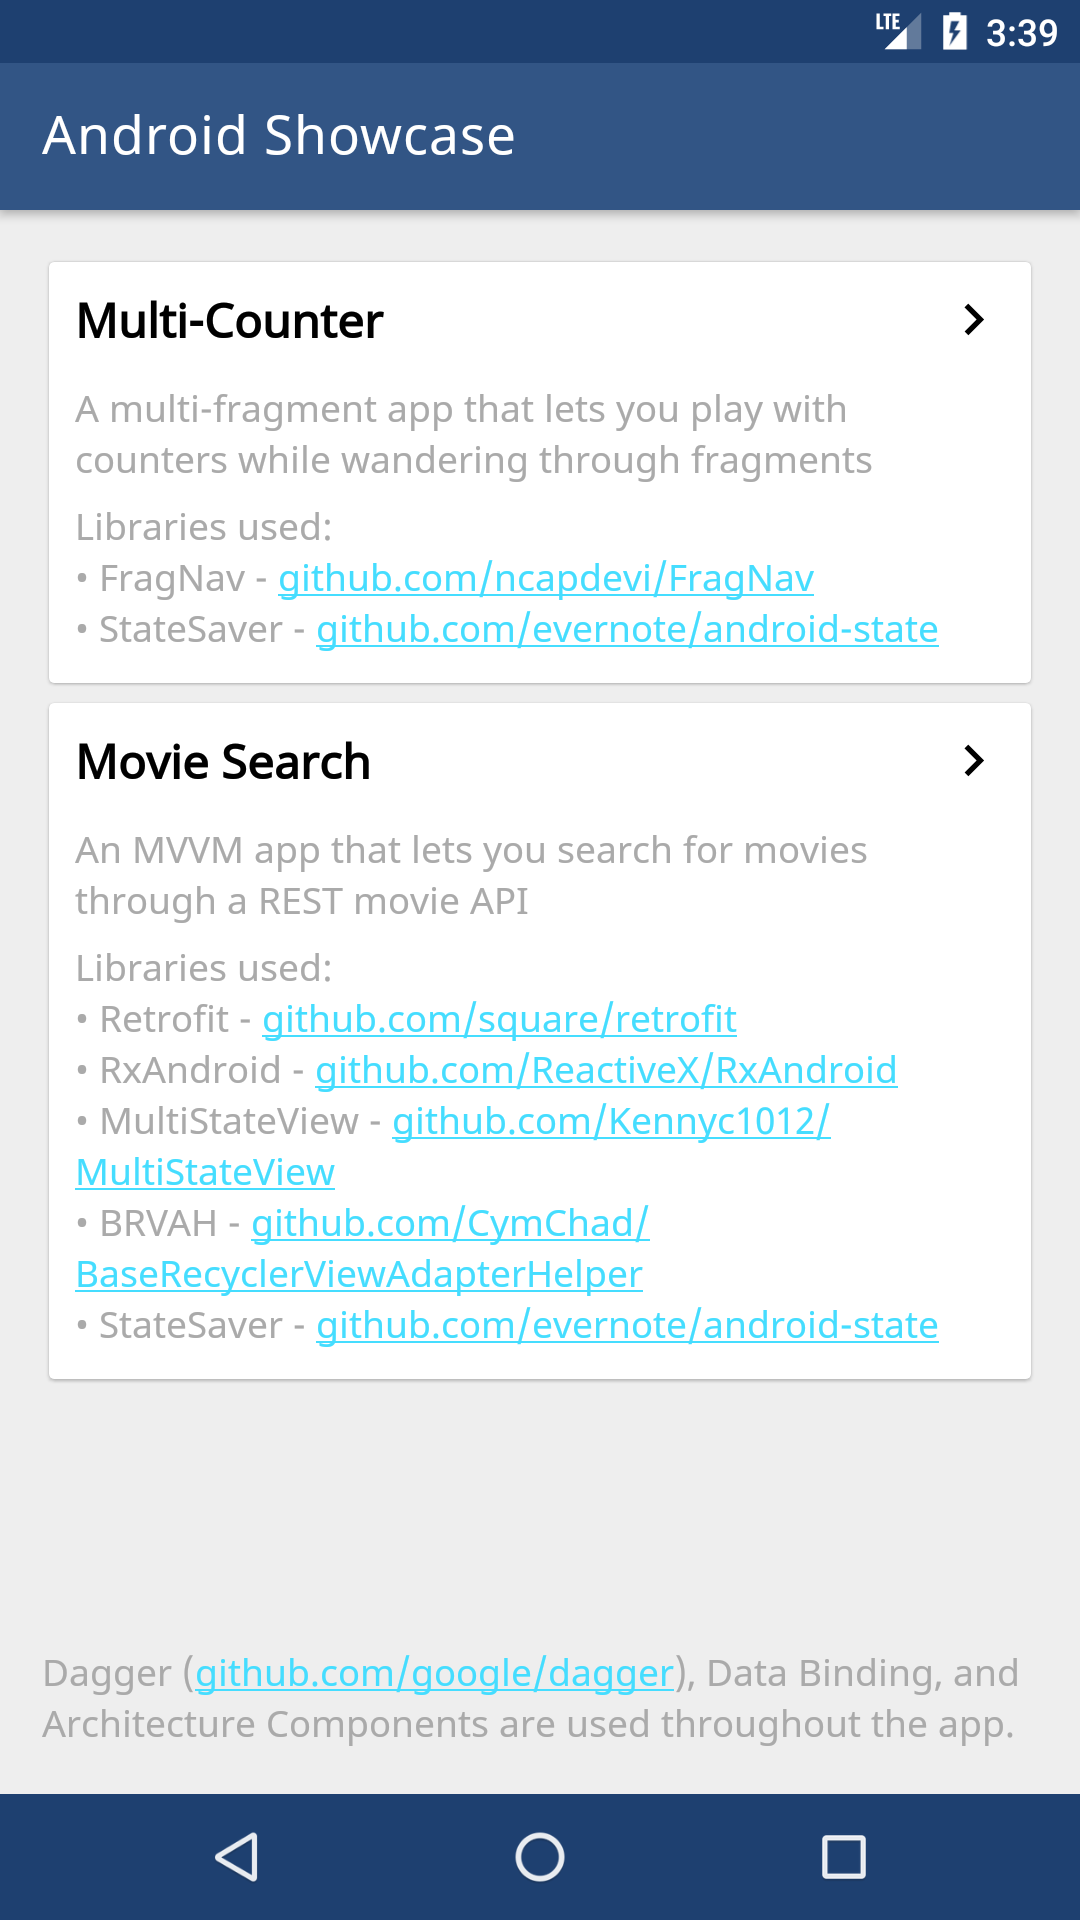
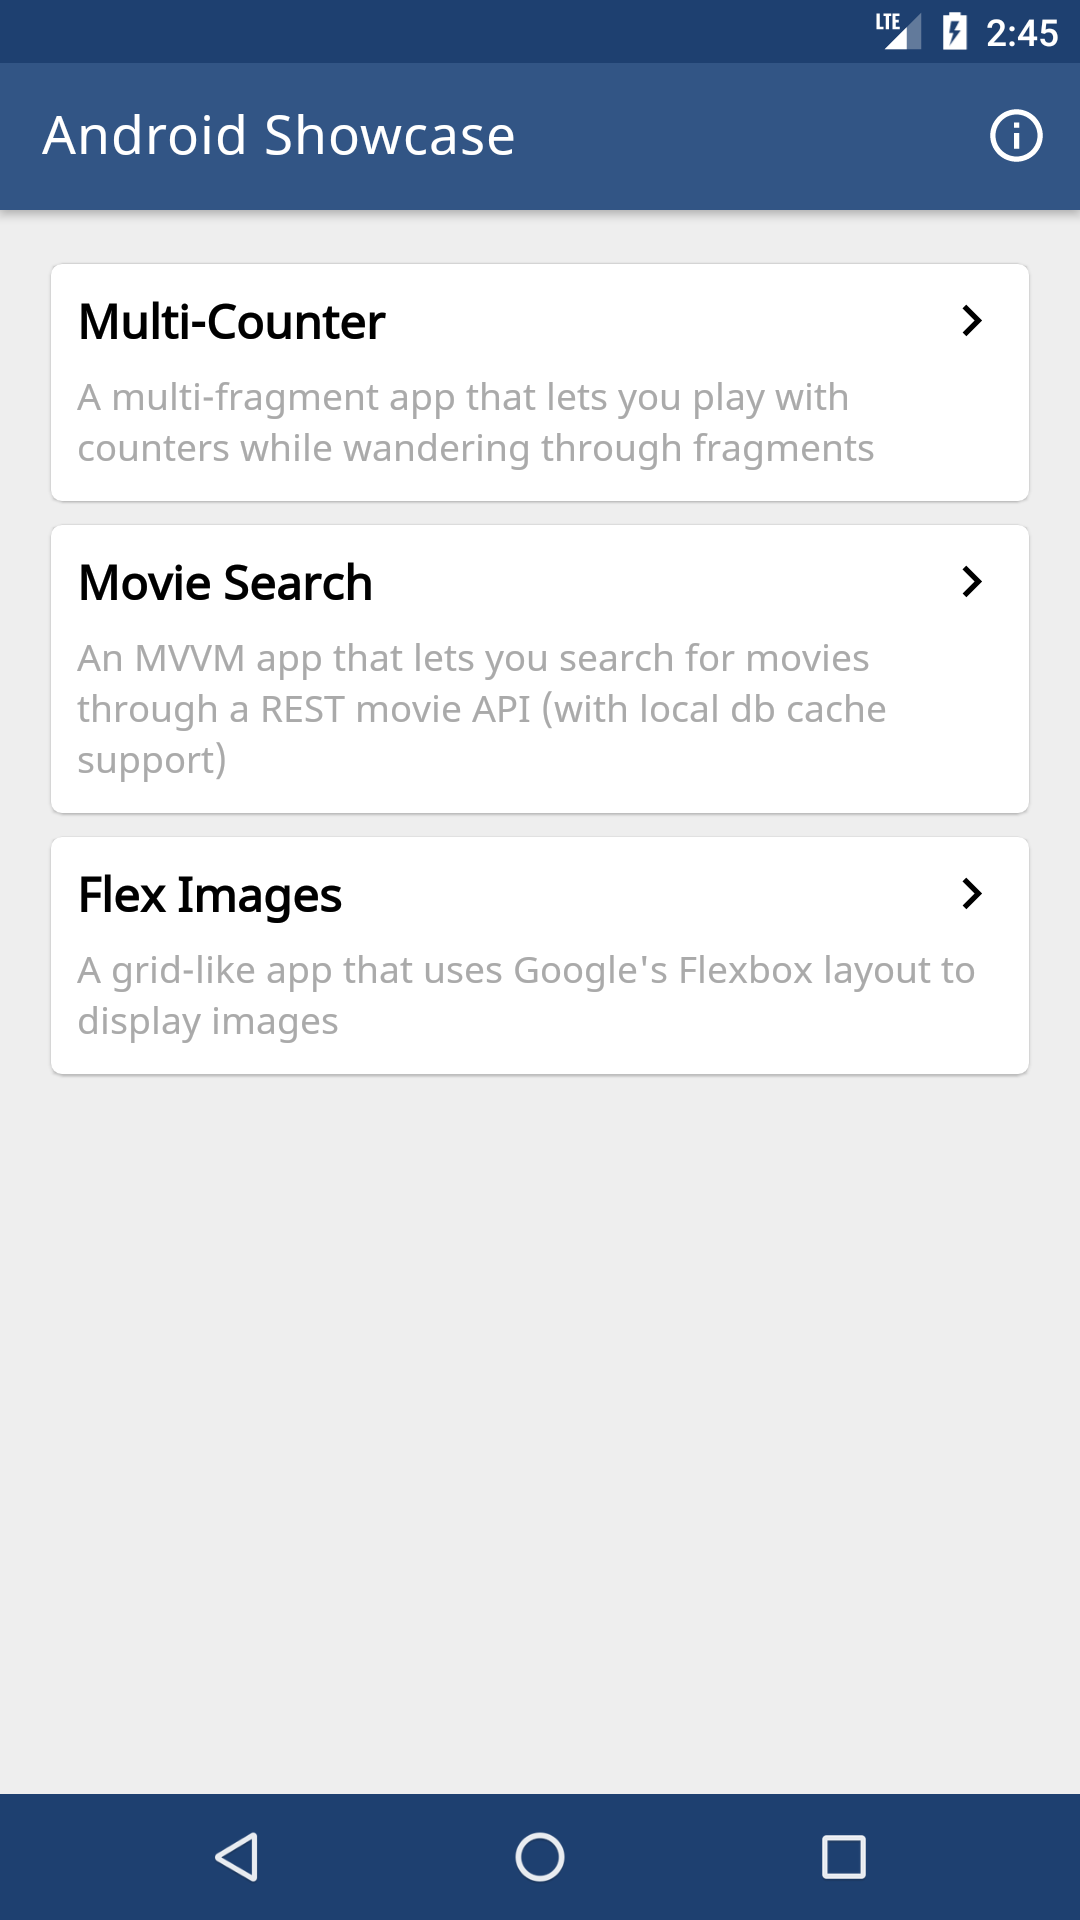
Add flex images subapp

diff --git a/app/src/main/java/mobi/mergen/androidshowcase/ui/act_fleximages/FlexImagesActivity.java b/app/src/main/java/mobi/mergen/androidshowcase/ui/act_fleximages/FlexImagesActivity.java
@@ -1,0 +1,53 @@
+package mobi.mergen.androidshowcase.ui.act_fleximages;
+
+import android.os.Bundle;
+import android.view.ViewGroup;
+import android.widget.ImageView;
+
+import com.squareup.picasso.Picasso;
+
+import androidx.annotation.Nullable;
+import mobi.mergen.androidshowcase.R;
+import mobi.mergen.androidshowcase.databinding.ActivityFlexImagesBinding;
+import mobi.mergen.androidshowcase.ui.base.BaseActivity;
+
+public class FlexImagesActivity extends BaseActivity<ActivityFlexImagesBinding> {
+
+    private final static String[] IMAGE_URLS = {
+            "https://images.pexels.com/photos/507410/pexels-photo-507410.jpeg",
+            "https://images.pexels.com/photos/460634/pexels-photo-460634.jpeg",
+            "https://images.pexels.com/photos/705405/pexels-photo-705405.jpeg",
+            "https://images.pexels.com/photos/257372/pexels-photo-257372.jpeg",
+            "https://images.pexels.com/photos/416887/pexels-photo-416887.jpeg",
+            "https://images.pexels.com/photos/786360/pexels-photo-786360.jpeg",
+            "https://images.pexels.com/photos/831082/pexels-photo-831082.jpeg",
+            "https://images.pexels.com/photos/1055068/pexels-photo-1055068.jpeg",
+            "https://images.pexels.com/photos/947179/pexels-photo-947179.jpeg"
+    };
+    private final static String IMAGE_URL_SUFFIX
+            = "?auto=compress&cs=tinysrgb&dpr=2&h=600&w=600";
+
+    @Override
+    protected void onCreate(@Nullable Bundle savedInstanceState) {
+        super.onCreate(savedInstanceState);
+
+        for (int i = 0; i < ((ViewGroup) getBinding().getRoot()).getChildCount(); i++) {
+            ImageView imageView = (ImageView) ((ViewGroup) getBinding().getRoot()).getChildAt(i);
+            Picasso.get()
+                    .load(IMAGE_URLS[i] + IMAGE_URL_SUFFIX)
+                    .fit().centerCrop()
+                    .into(imageView);
+        }
+    }
+
+    @Override
+    public int layoutRes() {
+        return R.layout.activity_flex_images;
+    }
+
+    @Override
+    public boolean doubleClickToExitEnabled() {
+        return true;
+    }
+
+}

diff --git a/app/src/main/java/mobi/mergen/androidshowcase/di/ActivityModule.java b/app/src/main/java/mobi/mergen/androidshowcase/di/ActivityModule.java
@@ -4,6 +4,7 @@ import dagger.Module;
 import dagger.android.ContributesAndroidInjector;
 import mobi.mergen.androidshowcase.di.act_module.MovieSearchActivityModule;
 import mobi.mergen.androidshowcase.di.act_module.MultiCounterActivityModule;
+import mobi.mergen.androidshowcase.ui.act_fleximages.FlexImagesActivity;
 import mobi.mergen.androidshowcase.ui.act_main.MainActivity;
 import mobi.mergen.androidshowcase.ui.act_moviesearch.MovieSearchActivity;
 import mobi.mergen.androidshowcase.ui.act_multicounter.MultiCounterActivity;
@@ -27,10 +28,14 @@ abstract class ActivityModule {
 
     @ActivityScope
     @ContributesAndroidInjector(modules = MultiCounterActivityModule.class)
-    abstract MultiCounterActivity contributeBottomBarActivity();
+    abstract MultiCounterActivity contributeMutliCounterActivity();
 
     @ActivityScope
     @ContributesAndroidInjector(modules = MovieSearchActivityModule.class)
     abstract MovieSearchActivity contributeMovieSearchActivity();
+
+    @ActivityScope
+    @ContributesAndroidInjector
+    abstract FlexImagesActivity contributeFlexImagesActivity();
 
 }

diff --git a/app/src/main/java/mobi/mergen/androidshowcase/ui/act_main/MainActivity.java b/app/src/main/java/mobi/mergen/androidshowcase/ui/act_main/MainActivity.java
@@ -16,6 +16,7 @@ import androidx.recyclerview.widget.LinearLayoutManager;
 import mobi.mergen.androidshowcase.R;
 import mobi.mergen.androidshowcase.common.Navigator;
 import mobi.mergen.androidshowcase.data.MainListItem;
+import mobi.mergen.androidshowcase.ui.act_fleximages.FlexImagesActivity;
 import mobi.mergen.androidshowcase.ui.act_moviesearch.MovieSearchActivity;
 import mobi.mergen.androidshowcase.ui.act_multicounter.MultiCounterActivity;
 import mobi.mergen.androidshowcase.ui.act_readme.ReadmeActivity;
@@ -70,7 +71,10 @@ public class MainActivity extends BaseActivity<ActivityMainBinding>
                 getString(R.string.main_title_moviesearch),
                 getString(R.string.main_desc_moviesearch),
                 () -> Navigator.start(this, MovieSearchActivity.class)));
-
+        items.add(new MainListItem(
+                getString(R.string.main_title_fleximages),
+                getString(R.string.main_desc_fleximages),
+                () -> Navigator.start(this, FlexImagesActivity.class)));
         return items;
     }
 

diff --git a/README.md b/README.md
@@ -5,8 +5,11 @@
 **Android Showcase** is a project that exhibits **how to implement common Android stuff in proper and structured way**. To do that, it provides a list of small sub-apps, each of which is implemented utilizing libraries & components that Android developers use on daily basis.
 
 <p align="center">
-<img src="stuff/ss1.png" width="25%"> <img src="stuff/ss2.png" width="25%"> <img src="stuff/ss3.png" width="25%">
+<img src="stuff/ss1.png" width="20%"> <img src="stuff/ss2.png" width="20%"> <img src="stuff/ss3.png" width="20%"> <img src="stuff/ss4.png" width="20%">
 </p>
+
+This project is under constant development. Please feel free to provide suggestions.
+
 
 
 ## List of Apps
@@ -17,19 +20,29 @@ Following is the list of sub-apps showcased in this project:
 
 A **multi-fragment** app that lets you play with counters while wandering through fragments
 
-Libraries used:
+Key libraries showcased:
 - [**FragNav**](https://github.com/ncapdevi/FragNav) - Android library for managing multiple stacks of fragments
+- [**StateSaver**](https://github.com/evernote/android-state) - A utility library for Android to save objects in a `Bundle` without any boilerplate
 
 ### 2. Movie Search
 
-An **MVVM** app that lets you search for movies through a REST movie API
+An **MVVM** app that lets you search for movies through a REST movie API (with local db cache support)
 
-Libraries used:
+Key libraries showcased:
 - [**Retrofit**](https://github.com/square/retrofit) - Type-safe HTTP client for Android and Java by Square, Inc.
 - [**WaspDb**](https://github.com/rehacktive/waspdb) - A pure Java key/value (NoSQL) database library for Android
 - [**MultiStateView**](https://github.com/Kennyc1012/MultiStateView) - Android View that displays different content based on its state
+- [**BRVAH**](https://github.com/CymChad/BaseRecyclerViewAdapterHelper) - Powerful and flexible RecyclerAdapter
+
+### 3. Flex Images
+
+A grid-like app that uses **Google's Flexbox** layout to display images
+
+Key libraries showcased:
+
+- [**FlexboxLayout**](https://github.com/google/flexbox-layout) - A library project which brings the similar capabilities of
+  [CSS Flexible Box Layout Module](https://www.w3.org/TR/css-flexbox-1) to Android
 - [**Picasso**](https://github.com/square/picasso) - A powerful image downloading and caching library for Android
-- [**Picasso Transformations**](https://github.com/wasabeef/picasso-transformations) - An Android transformation library providing a variety of image transformations for [Picasso](https://github.com/square/picasso)
 
 ### More coming soon...
 
@@ -49,6 +62,9 @@ Libraries and components used throughout the app (not specific to a sub-app) are
 - [**RxAndroid**](https://github.com/ReactiveX/RxAndroid) - Android specific bindings for [RxJava 2](http://github.com/ReactiveX/RxJava)
 - [**StateSaver**](https://github.com/evernote/android-state) - A utility library for Android to save objects in a `Bundle` without any boilerplate
 - [**BRVAH**](https://github.com/CymChad/BaseRecyclerViewAdapterHelper) - Powerful and flexible RecyclerAdapter
+- [**Android-SpinKit**](https://github.com/ybq/Android-SpinKit) - Android loading animations
+- [**Picasso**](https://github.com/square/picasso) - A powerful image downloading and caching library for Android
+- [**Picasso Transformations**](https://github.com/wasabeef/picasso-transformations) - An Android transformation library providing a variety of image transformations for [Picasso](https://github.com/square/picasso)
 
 
 
